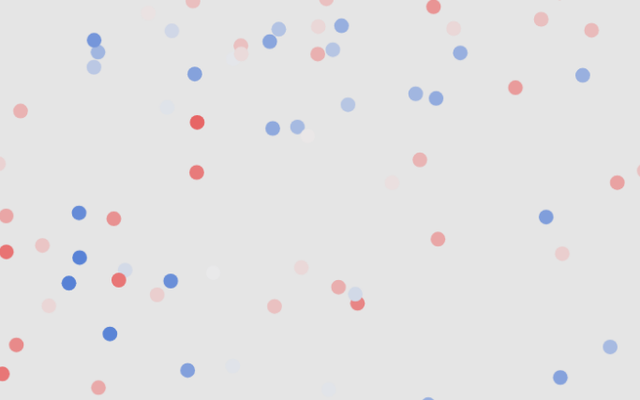
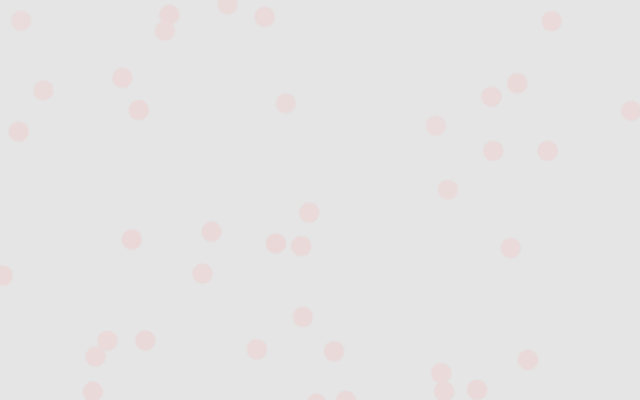
Zoom opinion dynamics thumbnail to densest agent band

diff --git a/apps/automatick-docs/src/examples.ts b/apps/automatick-docs/src/examples.ts
@@ -127,13 +127,12 @@ export const EXAMPLES: ExampleMeta[] = [
   { slug: 'physarum', label: 'Slime mold' },
   { slug: 'sugarscape', label: 'Sugarscape' },
   // Opinions start scattered and pale; let them cluster into clear camps.
-  // Diverging scale fades to near-white at consensus — shoot EARLY, while
-  // opinions are still polarized into vivid blue/red camps.
+  // Zoom to the densest band of agents so the camps read at tile size.
   {
     slug: 'opinion-dynamics',
     label: 'Opinion dynamics',
-    warmupMs: 300,
-    focus: { x: 0.15, y: 0.12, width: 0.55, height: 0.55 },
+    warmupMs: 16000,
+    focus: { x: 0.12, y: 0.1, width: 0.4, height: 0.4 },
   },
   // Crop to the price chart itself; full frame is mostly whitespace.
   { slug: 'market', label: 'Market', warmupMs: 6000, focus: { x: 0.04, y: 0.07, width: 0.82, height: 0.5 } },
